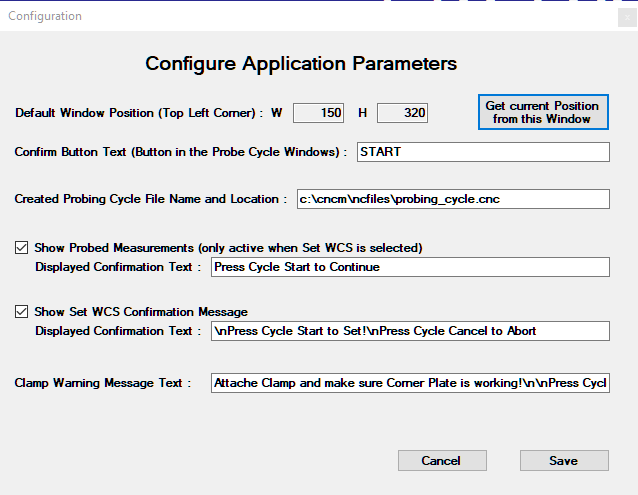
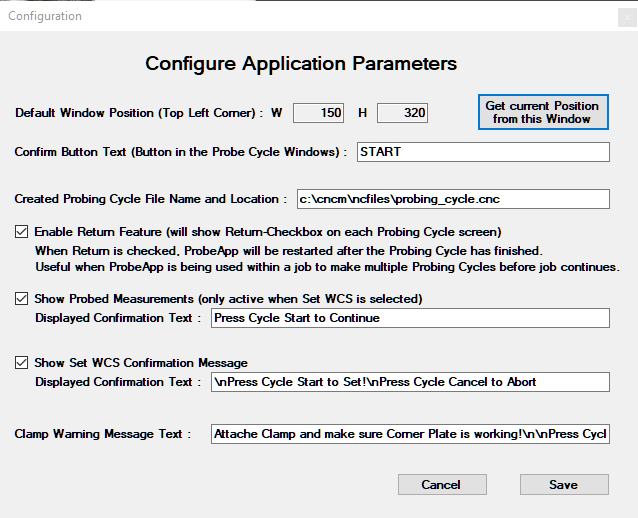
doc update

diff --git a/docs/configuration.md b/docs/configuration.md
@@ -25,6 +25,16 @@ Change the file name and location if preferred.
 
 **NOTE** that you need to adjust the mfunc58.mac (or any other macros you used to call the probing_cycle.cnc file) manually.
 
+## Enable Return Feature
+If this feature is enabled, a Check-Box named **Return** will appear on each Probing Cycle Screen next to the **START** Button:
+
+![](/images/pa098.PNG)
+
+If **Return** is checked when the **START** Button is clicked, the ProbeApp will add commands tro the probing cycle file that will re-open the ProbeApp after the probing cycle has finished.
+
+This feature is useful when the ProbeApp is being started from a running job, e.g. a M6 tool change command (*mfunc6.mac*).
+This will allow to execute several different probing cycles while the job is still in the M6 tool change hold to set WCS and Tool Height Offsets and then let the job continue after all probing has been completed.
+
 ## Show Probed Measurements
 Note that this setting only impacts a probing cycle that will set WCS.
 The default behavior is to display the probed measurements first and on a second screen present the WCS coordinates that will be set.
